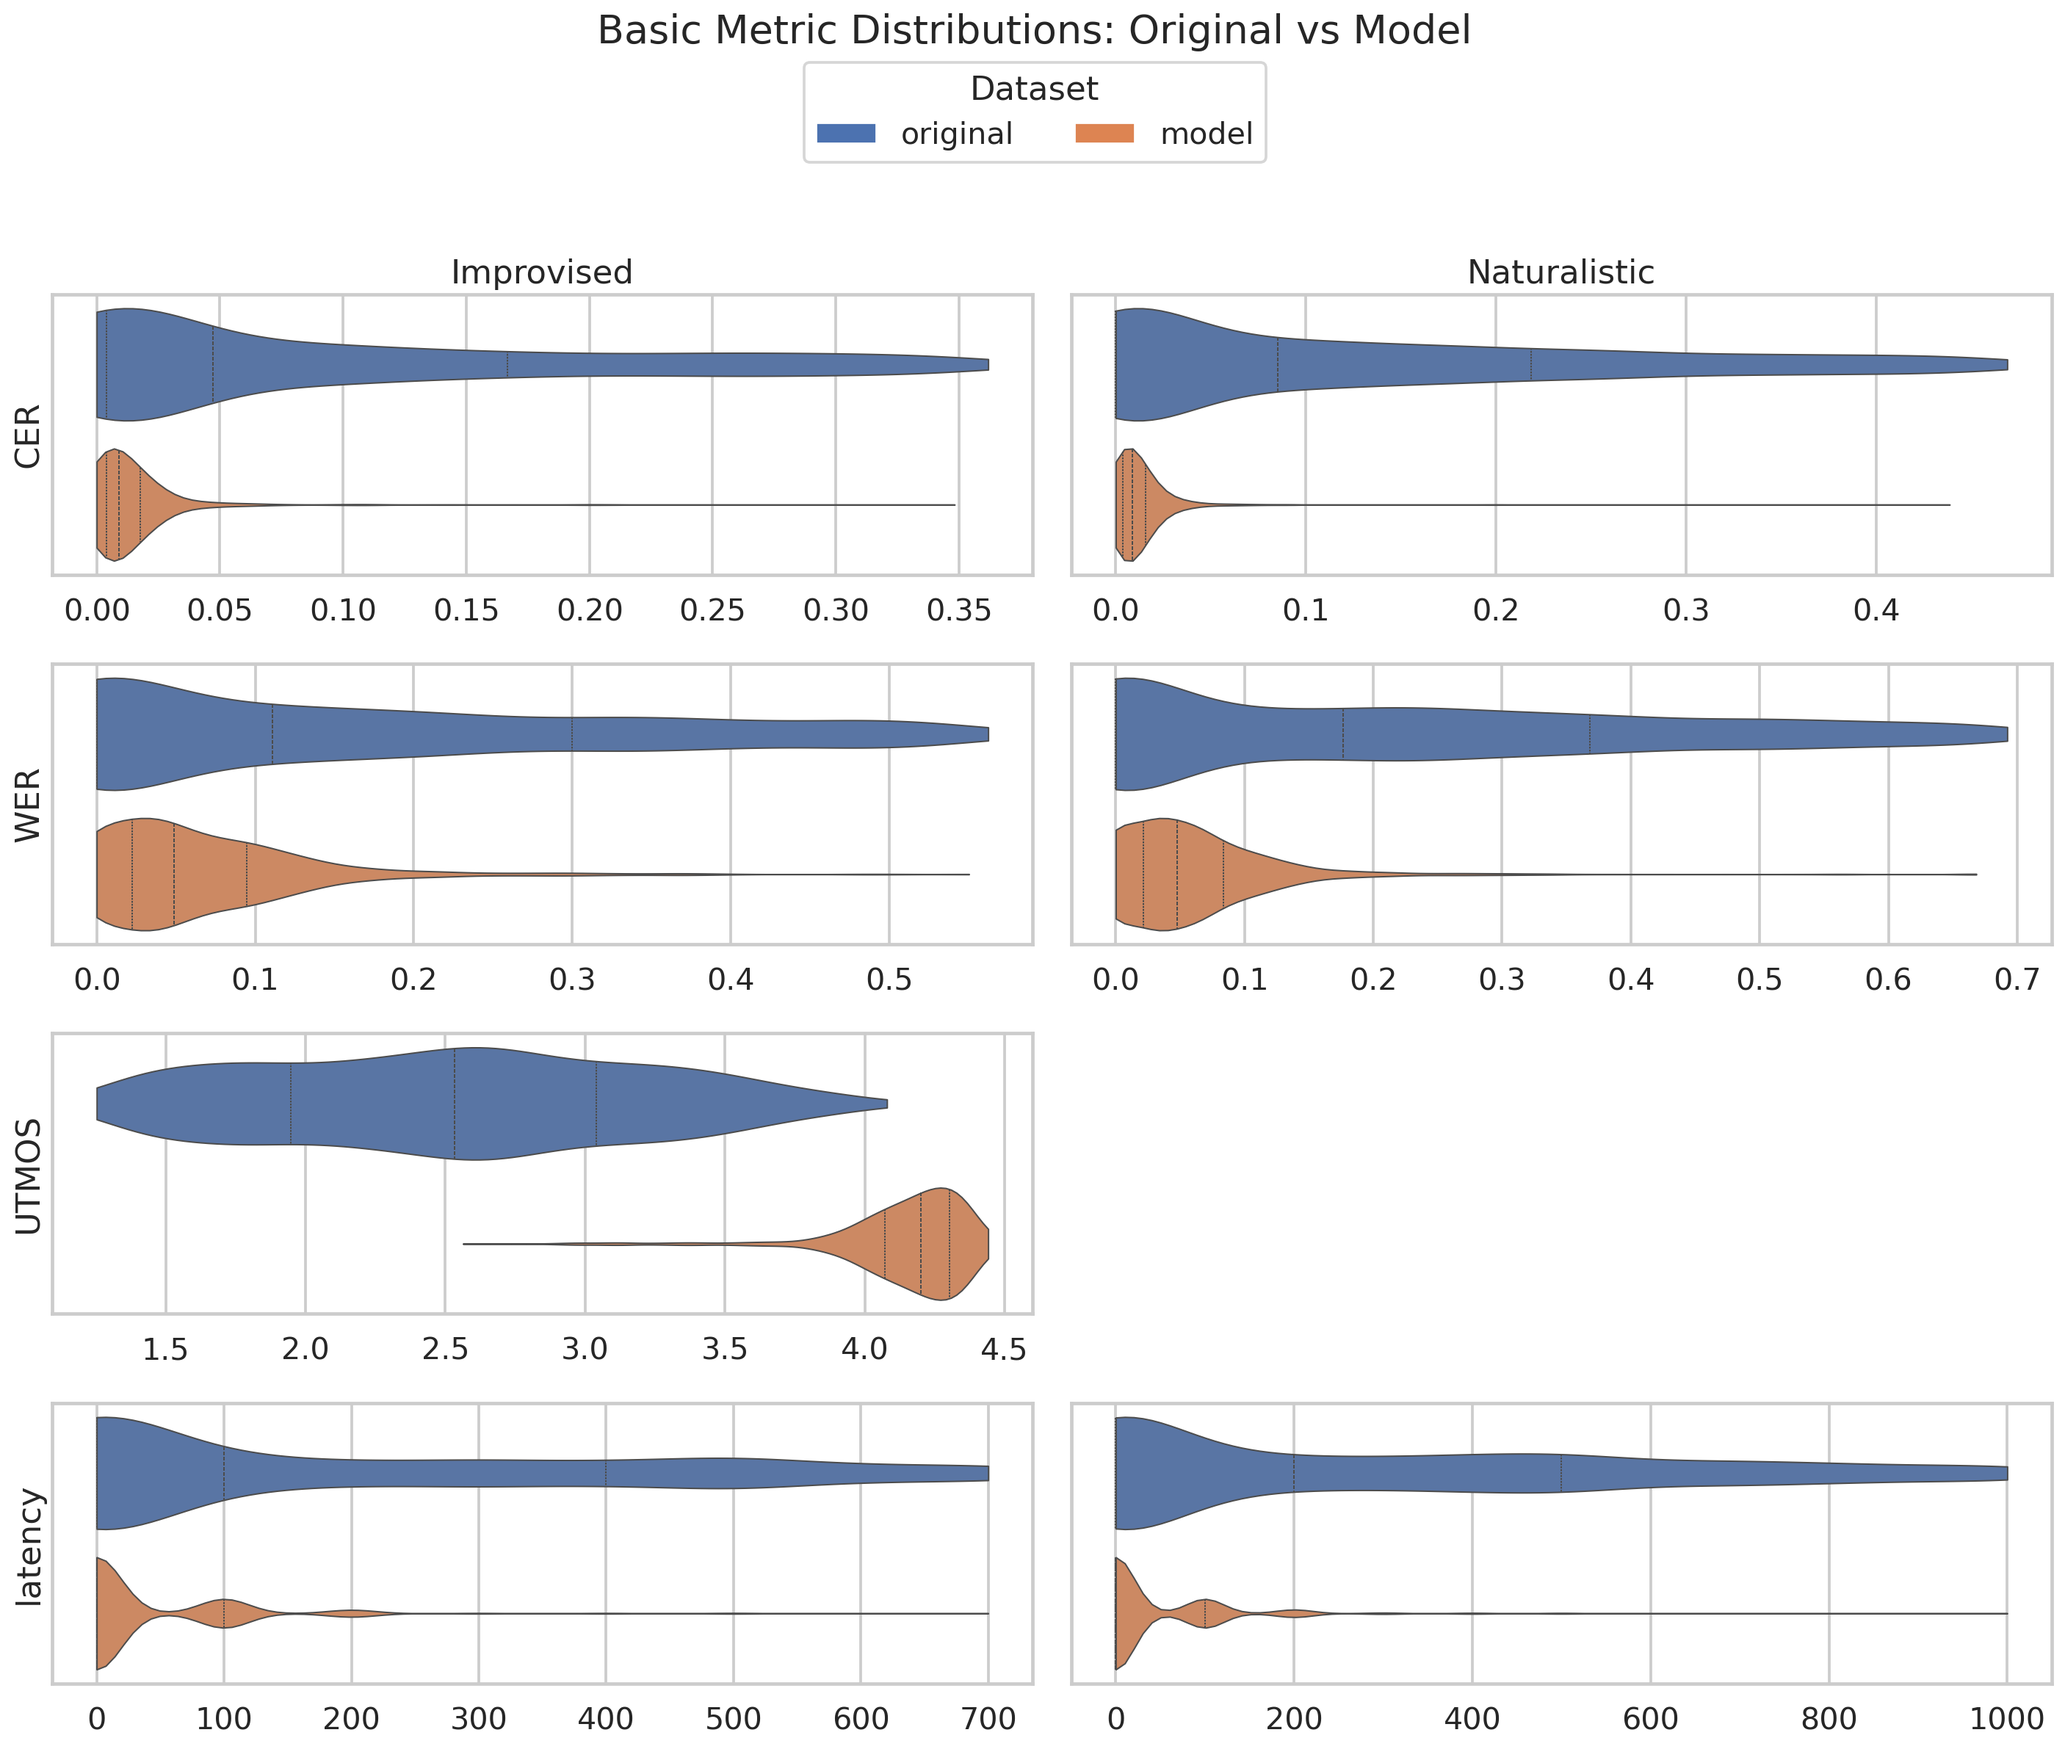
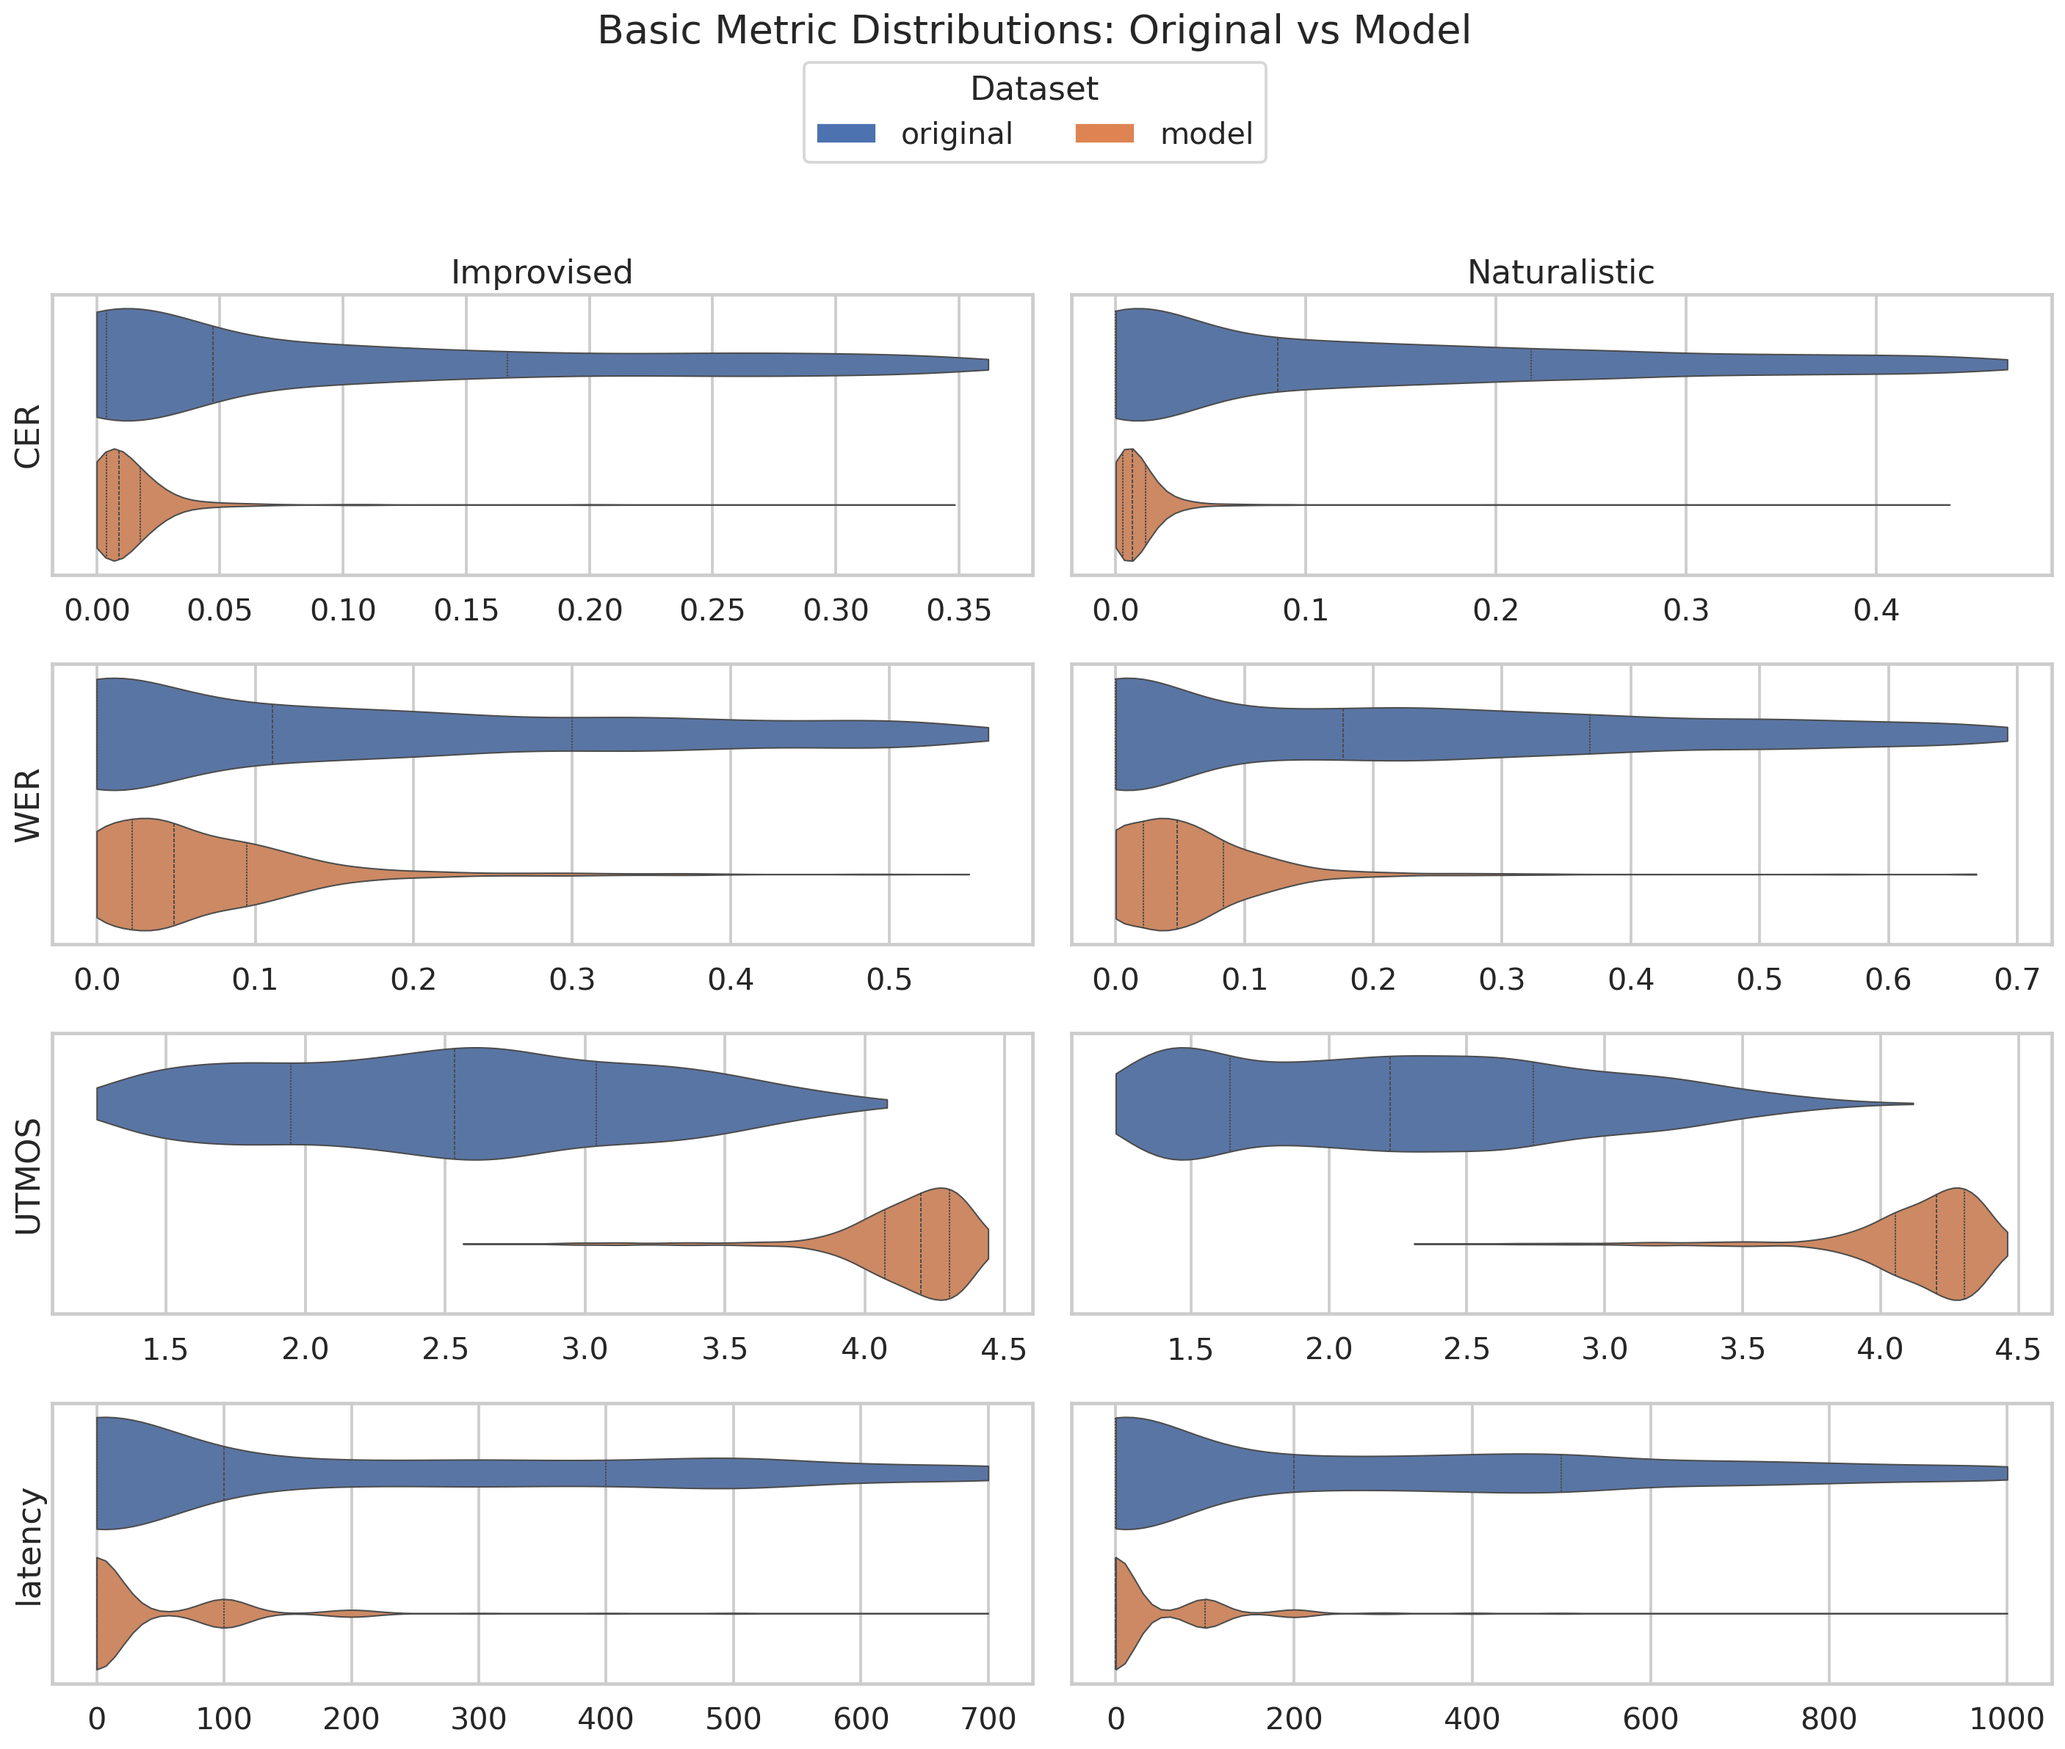
reports updated with new UTMOS

diff --git a/reports/gpt-4o-audio-preview-2025-06-03/detailed_report.html b/reports/gpt-4o-audio-preview-2025-06-03/detailed_report.html
@@ -44,7 +44,7 @@
 <p><strong>Mean STANCE diff:</strong> 0.1914 across 10 stances</p>
 <p><strong>Best explainable AUROC:</strong> lexical_mtld (0.9426)</p></section>
 <section class="card"><h3>Naturalistic</h3>
-<p><strong>Basic metrics:</strong> 3 metrics summarized</p>
+<p><strong>Basic metrics:</strong> 4 metrics summarized</p>
 <p><strong>Best explainable AUROC:</strong> lexical_mattr_large (0.9233)</p></section></div>
   </section>
 
@@ -117,6 +117,15 @@
       <td>1.4719</td>
       <td>9.617e-168</td>
       <td>1893</td>
+      <td>model-original mean difference; p-value is Mann-Whitney U Test</td>
+    </tr>
+    <tr>
+      <td>naturalistic</td>
+      <td>UTMOS</td>
+      <td>1.8816</td>
+      <td>0.7179</td>
+      <td>0.0000</td>
+      <td>1887</td>
       <td>model-original mean difference; p-value is Mann-Whitney U Test</td>
     </tr>
     <tr>
